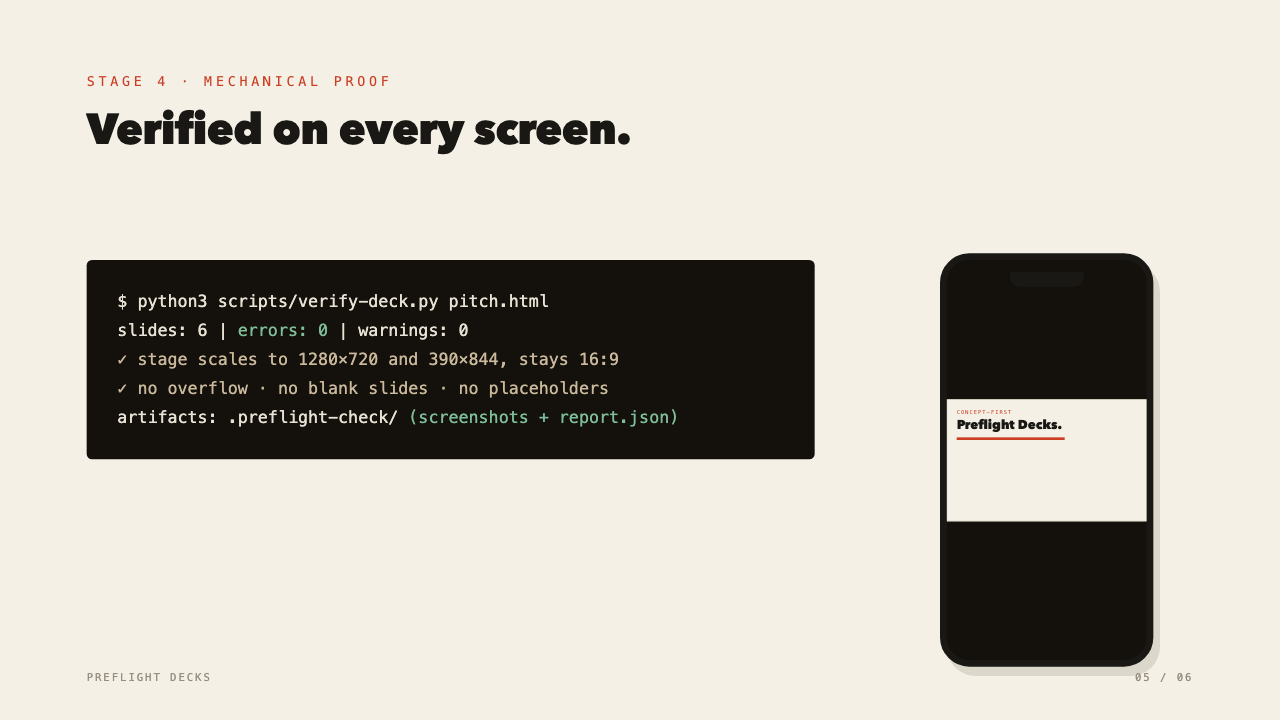
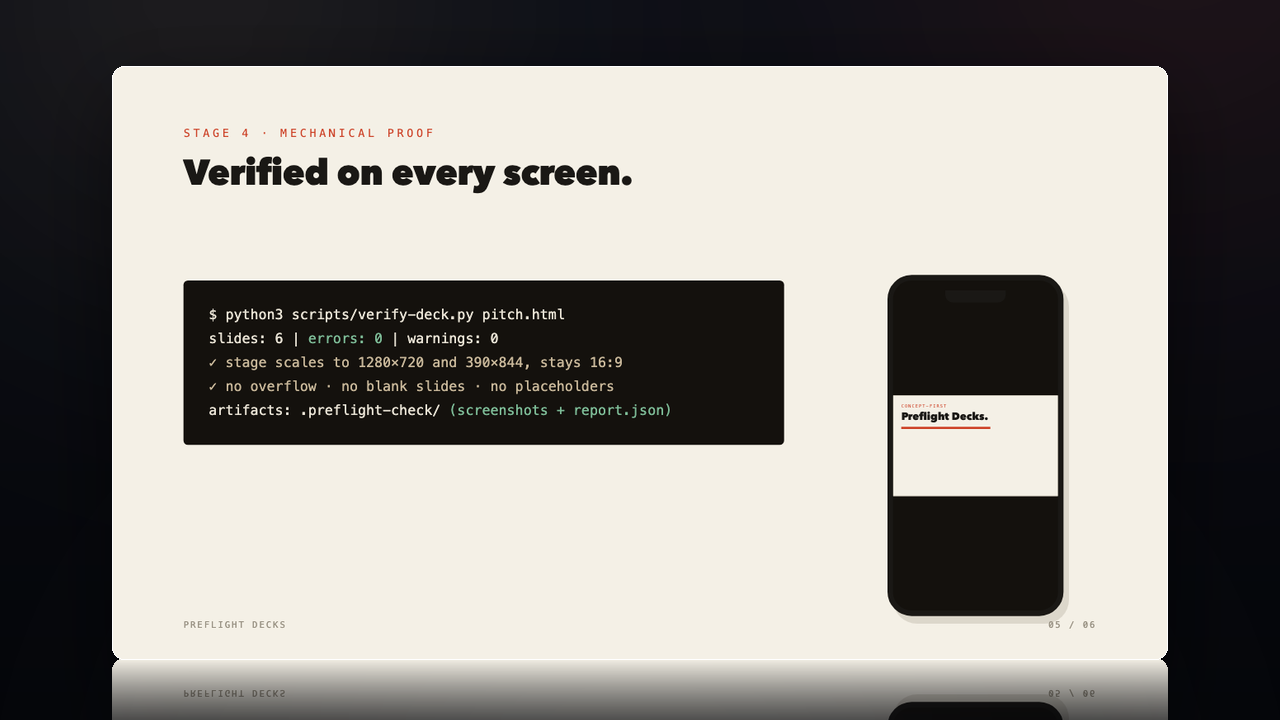
feat(site): recut hero film from the full five-shot master, stage preview screenshots on the cinematic set
The launch page filmstrip was an ad hoc 36-frame recut of only the master
film's head and tail: ~40% near-static dark stage, a one-frame flash, then
~55% of a frozen near-white slide — and the rail/pinned screenshots were
raw slide exports that read as blank white canvases on the dark page.

- render_site_filmstrip.py: deterministically samples 72 frames across all
  five shots of assets/hero-concept-gate.mp4 into a 1.2MB WebP sprite
  (smaller than the old 1.5MB JPEG at twice the frames); first/last JPEGs
  regenerated; site JS updated to 72 frames and the WebP
- sitestage.py + render_site_previews.py: raw slides move to
  assets/site-previews/ and are composited as lit floating screens (glow,
  bezel, floor shadow/reflection, signal-red halo on the chosen direction),
  idempotent
- render_site_social_card.py: OG/Twitter card restaged with the launch
  headline and chosen screen
- docs + README inventory updated

diff --git a/site/index.html b/site/index.html
@@ -384,10 +384,10 @@
   const FRAME_W = 1280;
   const FRAME_H = 720;
   const COLS = 6;
-  const FRAMES = 36;
+  const FRAMES = 72;
   let lastFrame = -1;
   const filmstrip = new Image();
-  filmstrip.src = 'assets/hero-filmstrip.jpg';
+  filmstrip.src = 'assets/hero-filmstrip.webp';
   const drawFrame = (progress) => {
     const index = Math.min(FRAMES - 1, Math.floor(progress * FRAMES));
     if (index === lastFrame || !filmstrip.complete || !filmstrip.naturalWidth) return;

diff --git a/scripts/sitestage.py b/scripts/sitestage.py
@@ -1,0 +1,99 @@
+"""Shared cinematic-stage compositing for launch-page raster assets.
+
+Used by render_site_previews.py and render_site_social_card.py so every
+raster on the launch page speaks one lighting language: near-black gradient
+plate, amber/cinnabar/cool ambient glows, floating rounded screens with
+hairline bezels, floor shadow and reflection. Pure Pillow, deterministic.
+"""
+from __future__ import annotations
+
+from PIL import Image, ImageChops, ImageDraw, ImageFilter
+
+CINNABAR = (232, 72, 44)
+AMBER = (226, 178, 120)
+COOL = (226, 238, 255)
+INK = (236, 238, 244)
+MUTE = (150, 156, 168)
+
+
+def plate(w: int, h: int, *, top=(11, 14, 22), bottom=(4, 5, 9)) -> Image.Image:
+    im = Image.new("RGBA", (w, h), top + (255,))
+    d = ImageDraw.Draw(im)
+    for y in range(h):
+        t = y / (h - 1)
+        row = tuple(round(top[i] + (bottom[i] - top[i]) * t) for i in range(3))
+        d.line((0, y, w, y), fill=row + (255,))
+    return im
+
+
+def add_glow(base: Image.Image, color: tuple[int, int, int], fx: float, fy: float,
+             fr: float, peak: float) -> None:
+    w, h = base.size
+    diameter = int(fr * 2 * w)
+    glow = Image.new("RGBA", (diameter, diameter), color + (0,))
+    mask = Image.new("L", (diameter, diameter), 0)
+    md = ImageDraw.Draw(mask)
+    for i in range(30, 0, -1):
+        t = i / 30
+        a = int(255 * peak * (1 - t) ** 1.5)
+        r = diameter / 2 * t
+        md.ellipse((diameter / 2 - r, diameter / 2 - r,
+                    diameter / 2 + r, diameter / 2 + r), fill=a)
+    mask = mask.filter(ImageFilter.GaussianBlur(diameter / 12))
+    glow.putalpha(mask)
+    base.alpha_composite(glow, (int(fx * w - diameter / 2),
+                                int(fy * h - diameter / 2)))
+
+
+def rounded_mask(w: int, h: int, radius: int) -> Image.Image:
+    mask = Image.new("L", (w, h), 0)
+    ImageDraw.Draw(mask).rounded_rectangle((0, 0, w - 1, h - 1),
+                                           radius=radius, fill=255)
+    return mask
+
+
+def stage_screen(base: Image.Image, slide: Image.Image, x: int, y: int,
+                 card_w: int, card_h: int, *, radius: int = 12,
+                 chosen: bool = False, dark_slide: bool = False,
+                 reflection: bool = True) -> None:
+    """Composite a slide screenshot as a lit floating screen in place."""
+    w, h = base.size
+
+    if chosen:
+        halo = Image.new("RGBA", (w, h), (0, 0, 0, 0))
+        ImageDraw.Draw(halo).rounded_rectangle(
+            (x - 8, y - 8, x + card_w + 8, y + card_h + 8),
+            radius=radius + 8, fill=CINNABAR + (95,))
+        base.alpha_composite(halo.filter(ImageFilter.GaussianBlur(36)))
+
+    shadow = Image.new("RGBA", (w, h), (0, 0, 0, 0))
+    ImageDraw.Draw(shadow).rounded_rectangle(
+        (x + 8, y + 34, x + card_w - 8, y + card_h + 58),
+        radius=radius, fill=(0, 0, 0, 150))
+    base.alpha_composite(shadow.filter(ImageFilter.GaussianBlur(40)))
+
+    card = slide.convert("RGBA").resize((card_w, card_h), Image.LANCZOS)
+    card.putalpha(rounded_mask(card_w, card_h, radius))
+
+    if reflection:
+        refl_h = min(116, card_h // 5)
+        refl = card.crop((0, card_h - refl_h, card_w, card_h)).transpose(
+            Image.Transpose.FLIP_TOP_BOTTOM)
+        fade = Image.new("L", (card_w, refl_h), 0)
+        fp = fade.load()
+        for yy in range(refl_h):
+            a = int(255 * (1 - yy / refl_h) ** 1.6)
+            for xx in range(card_w):
+                fp[xx, yy] = a
+        refl.putalpha(ImageChops.multiply(refl.getchannel("A"), fade))
+        base.alpha_composite(refl, (x, y + card_h - 2))
+
+    base.alpha_composite(card, (x, y))
+
+    edge = ImageDraw.Draw(base)
+    if chosen:
+        outline, line_w = CINNABAR + (235,), 2
+    else:
+        outline, line_w = (255, 255, 255, 78 if dark_slide else 120), 1
+    edge.rounded_rectangle((x, y, x + card_w - 1, y + card_h - 1),
+                           radius=radius, outline=outline, width=line_w)

diff --git a/scripts/render_site_social_card.py b/scripts/render_site_social_card.py
@@ -1,0 +1,95 @@
+#!/usr/bin/env python3
+"""Rebuild the 1280x640 OG/Twitter card on the launch-page stage.
+
+The previous card was a light contact sheet that belonged to the old pale
+site. This keeps the exact launch-page copy ("Clear ideas / before pixels.")
+and shows the chosen direction floating on the same cinematic plate, so a
+shared link already feels like the page behind it.
+
+Source: assets/site-previews/dir-03.png (the chosen concept-gate direction).
+Output: site/assets/social-card.png (idempotent overwrite).
+
+Pure Pillow using macOS system SF Pro; run on macOS.
+"""
+from __future__ import annotations
+
+from pathlib import Path
+
+from PIL import Image, ImageDraw, ImageFont
+
+from sitestage import add_glow, AMBER, CINNABAR, COOL, INK, MUTE, plate, stage_screen
+
+ROOT = Path(__file__).resolve().parents[1]
+SF = "/System/Library/Fonts/SFNS.ttf"
+SFMONO = "/System/Library/Fonts/SFNSMono.ttf"
+W, H = 1280, 640
+
+
+def sf(size: int, weight: str) -> ImageFont.FreeTypeFont:
+    f = ImageFont.truetype(SF, size=size)
+    try:
+        f.set_variation_by_name(weight)
+    except OSError:
+        pass
+    return f
+
+
+def tracked(draw: ImageDraw.ImageDraw, xy, text, font, fill, tracking=0):
+    x, y = xy
+    for ch in text:
+        draw.text((x, y), ch, font=font, fill=fill)
+        x += draw.textlength(ch, font=font) + tracking
+
+
+def wrap(draw, text, font, width):
+    words, lines, cur = text.split(), [], ""
+    for word in words:
+        trial = (cur + " " + word).strip()
+        if draw.textlength(trial, font=font) <= width:
+            cur = trial
+        else:
+            lines.append(cur)
+            cur = word
+    if cur:
+        lines.append(cur)
+    return lines
+
+
+def main() -> None:
+    base = plate(W, H)
+    add_glow(base, AMBER, 0.10, -0.12, 0.46, 0.13)
+    add_glow(base, CINNABAR, 0.92, -0.10, 0.5, 0.16)
+    add_glow(base, COOL, 0.42, 1.18, 0.55, 0.09)
+
+    # chosen direction as the floating screen (right two fifths)
+    slide = Image.open(ROOT / "assets" / "site-previews" / "dir-03.png")
+    card_w = 596
+    card_h = round(card_w * 720 / 1280)
+    stage_screen(base, slide, W - card_w - 84, (H - card_h) // 2 - 6,
+                 card_w, card_h, chosen=True, reflection=False)
+
+    d = ImageDraw.Draw(base)
+    x = 84
+    tracked(d, (x, 132), "PREFLIGHT DECKS", ImageFont.truetype(SFMONO, 18),
+            AMBER + (255,), tracking=3)
+
+    title = sf(74, "Bold")
+    d.text((x - 3, 178), "Clear ideas", font=title, fill=INK + (255,))
+    d.text((x - 3, 262), "before pixels.", font=title, fill=CINNABAR + (255,))
+
+    sub = sf(25, "Regular")
+    lines = wrap(d,
+                 "Three directions, chosen on pixels — then verified on a "
+                 "projector and a phone before delivery.", sub, 500)
+    y = 372
+    for line in lines:
+        d.text((x, y), line, font=sub, fill=MUTE + (255,))
+        y += 36
+
+    base.convert("RGB").save(ROOT / "site" / "assets" / "social-card.png",
+                             optimize=True)
+    print("staged social-card.png")
+
+
+if __name__ == "__main__":
+    main()

diff --git a/scripts/render_site_filmstrip.py b/scripts/render_site_filmstrip.py
@@ -1,0 +1,87 @@
+#!/usr/bin/env python3
+"""Rebuild the launch-page hero filmstrip from the README master film.
+
+The website hero is scroll-scrubbed from a tiled sprite (see
+site/index.html). The source of truth is the full five-shot README film
+assets/hero-concept-gate.mp4 (storyboard: docs/hero-film-storyboard.md);
+this script samples FRAMES evenly across every shot, so the website can no
+longer silently drift back to a two-clip recut.
+
+Outputs (committed; CI never rebuilds them):
+  site/assets/hero-filmstrip.webp   COLS x ROWS tiled sprite
+  site/assets/hero_first.jpg        still shown before the sprite decodes
+  site/assets/hero_last.jpg         sprite decode / no-canvas fallback
+
+Requirements: ffmpeg on PATH, Pillow.
+"""
+from __future__ import annotations
+
+import subprocess
+import tempfile
+from pathlib import Path
+
+from PIL import Image
+
+ROOT = Path(__file__).resolve().parents[1]
+SOURCE = ROOT / "assets" / "hero-concept-gate.mp4"
+SITE_ASSETS = ROOT / "site" / "assets"
+
+FRAME_W, FRAME_H = 1280, 720
+FRAMES = 72
+COLS = 6
+WEBP_QUALITY = 72
+JPEG_QUALITY = 86
+
+
+def ffprobe_frame_count() -> int:
+    out = subprocess.run(
+        ["ffprobe", "-v", "error", "-count_frames", "-select_streams", "v:0",
+         "-show_entries", "stream=nb_read_frames", "-of",
+         "csv=p=0", str(SOURCE)],
+        check=True, capture_output=True, text=True,
+    ).stdout.strip()
+    return int(out)
+
+
+def sample(total: int) -> list[int]:
+    return [round(i * (total - 1) / (FRAMES - 1)) for i in range(FRAMES)]
+
+
+def main() -> None:
+    if not SOURCE.exists():
+        raise SystemExit(f"missing master film: {SOURCE}")
+    total = ffprobe_frame_count()
+    indices = sample(total)
+    expression = "+".join(f"eq(n\\,{i})" for i in indices)
+
+    with tempfile.TemporaryDirectory() as tmp:
+        tmp_path = Path(tmp)
+        subprocess.run(
+            ["ffmpeg", "-y", "-loglevel", "error", "-i", str(SOURCE),
+             "-vf", f"select='{expression}'", "-vsync", "0",
+             str(tmp_path / "f%03d.png")],
+            check=True,
+        )
+        frames = sorted(tmp_path.glob("f*.png"))
+        if len(frames) != FRAMES:
+            raise SystemExit(f"expected {FRAMES} frames, got {len(frames)}")
+        images = [Image.open(f).convert("RGB") for f in frames]
+
+        rows = (FRAMES + COLS - 1) // COLS
+        strip = Image.new("RGB", (COLS * FRAME_W, rows * FRAME_H), (0, 0, 0))
+        for i, im in enumerate(images):
+            strip.paste(im, ((i % COLS) * FRAME_W, (i // COLS) * FRAME_H))
+        strip.save(SITE_ASSETS / "hero-filmstrip.webp",
+                   quality=WEBP_QUALITY, method=6)
+
+        images[0].save(SITE_ASSETS / "hero_first.jpg",
+                       quality=JPEG_QUALITY, optimize=True)
+        images[-1].save(SITE_ASSETS / "hero_last.jpg",
+                        quality=JPEG_QUALITY, optimize=True)
+
+    print(f"wrote {FRAMES} sampled frames from {total} "
+          f"({COLS}x{rows}) to site/assets/")
+
+
+if __name__ == "__main__":
+    main()

diff --git a/scripts/render_site_previews.py b/scripts/render_site_previews.py
@@ -1,0 +1,61 @@
+#!/usr/bin/env python3
+"""Stage raw slide screenshots for the launch page.
+
+The rail + pinned screenshots used to be raw slide exports dropped straight
+into a dark page: near-blank white canvases and one dark red blob, three
+different worlds. The previews now keep every slide pixel intact (a preview
+must stay the real slide) but float as lit screens on the cinematic plate
+shared with the hero — see sitestage.py.
+
+Source slides (committed, provenance = the concept-gate + built deck):
+  assets/site-previews/{dir-01,dir-02,dir-03,deck-05}.png
+Outputs (overwritten every run, idempotent):
+  site/assets/{dir-01,dir-02,dir-03,deck-05}.png
+
+Pure Pillow, deterministic, no network. Run: python3 scripts/render_site_previews.py
+"""
+from __future__ import annotations
+
+from pathlib import Path
+
+from PIL import Image
+
+from sitestage import add_glow, AMBER, CINNABAR, COOL, plate, stage_screen
+
+ROOT = Path(__file__).resolve().parents[1]
+SRC_DIR = ROOT / "assets" / "site-previews"
+OUT_DIR = ROOT / "site" / "assets"
+W, H = 1280, 720
+
+CARD_W = 1056
+CARD_H = round(CARD_W * 720 / 1280)  # 594
+CARD_X = (W - CARD_W) // 2
+CARD_Y = 66
+
+JOBS = [
+    ("dir-01.png", {"chosen": False, "dark_slide": False}),
+    ("dir-02.png", {"chosen": False, "dark_slide": True}),
+    ("dir-03.png", {"chosen": True, "dark_slide": False}),
+    ("deck-05.png", {"chosen": False, "dark_slide": False}),
+]
+
+
+def build(slide: Image.Image, *, chosen: bool, dark_slide: bool) -> Image.Image:
+    base = plate(W, H)
+    add_glow(base, AMBER, 0.16, 0.0, 0.42, 0.12)
+    add_glow(base, CINNABAR, 0.92, -0.08, 0.46, 0.24 if chosen else 0.12)
+    add_glow(base, COOL, 0.5, 1.14, 0.52, 0.10)
+    stage_screen(base, slide, CARD_X, CARD_Y, CARD_W, CARD_H,
+                 chosen=chosen, dark_slide=dark_slide)
+    return base.convert("RGB")
+
+
+def main() -> None:
+    for name, flags in JOBS:
+        slide = Image.open(SRC_DIR / name)
+        build(slide, **flags).save(OUT_DIR / name, optimize=True)
+        print("staged", name)
+
+
+if __name__ == "__main__":
+    main()

diff --git a/docs/hero-film-storyboard.md b/docs/hero-film-storyboard.md
@@ -40,3 +40,24 @@ The verifier screenshots the film is cut from are generated, not committed; the
 script runs `scripts/verify-deck.py` first when they are missing. The stage is
 deterministic, so a fresh clone rebuilds the same film without random particle
 or grain flicker.
+
+## Launch-page assets derived from the master film
+
+The live launch page (`site/`) reuses this film's full arc instead of keeping
+its own cut:
+
+```bash
+# 72-frame WebP sprite for scroll scrubbing + first/last fallback JPEGs
+# (requires ffmpeg; samples evenly across all five shots, so the site can
+# silently drift to a two-clip recut no more)
+python3 scripts/render_site_filmstrip.py
+
+# rail + pinned screenshots, floated as lit screens on the matching dark set
+python3 scripts/render_site_previews.py
+
+# 1280x640 OG/Twitter card with the launch headline and the chosen direction
+python3 scripts/render_site_social_card.py   # macOS (system SF Pro)
+```
+
+Preview sources live in `assets/site-previews/`; all three outputs land in
+`site/assets/`, are committed, and are never rebuilt in CI.

diff --git a/README.md b/README.md
@@ -221,6 +221,9 @@ templates/direction-approved.md  the gate file the user signs off on
 scripts/verify-deck.py           Playwright dual-viewport verifier
 scripts/check_launch_motion.py   normal/reduced-motion launch-page gate
 scripts/render_readme_hero.py    rebuilds the hero film above
+scripts/render_site_filmstrip.py rebuilds the launch-page filmstrip from that film
+scripts/render_site_previews.py stages the rail/pinned screenshots on the dark set
+scripts/render_site_social_card.py rebuilds the 1280x640 share card
 examples/                        the dogfooded deck + its three previews
 ```
 
